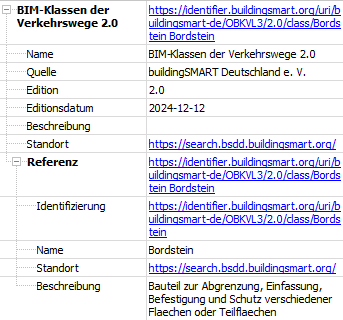
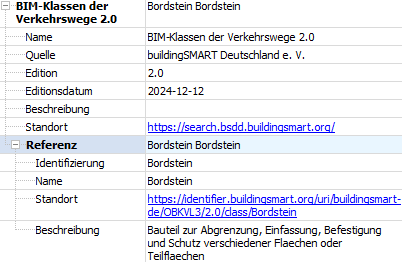
changed Identification to Location for pSetName creation

diff --git a/ConvertToPropertySet.py b/ConvertToPropertySet.py
@@ -49,13 +49,15 @@ def convert_to_property_set(file, model, pSetNameType):
                             removable.add(classification.ClassificationForObjects[0])
                 else:
                     value = attr.get(key)
-                    if key == 'Identification' and pSetName == 'GenerateNames' and value is not None:
+                    if key == 'Location' and pSetName == 'GenerateNames' and value is not None:
                         val = value.split('/')
                         l = len(val)
                         try:
                             pSetName = 'bSD_' + val[l-4] + '_' + val[l-3]
                         except:
                             pSetName = 'bSD_' + attr.get("Name")
+                    elif key == 'Location' and pSetName == 'GenerateNames' and value is None:
+                        pSetName = 'bSD_' + attr.get("Name")
                     if value is not None:
                         properties['Class'+key] = value
             removable.add(reference)

diff --git a/main.py b/main.py
@@ -107,7 +107,7 @@ pSetName.update_idletasks()
 w = pSetName.winfo_width()
 rb_generate = Radiobutton(
     tab2,
-    text="Generate Pset names by URI \n\n(Important! bSDD URI in IfcClassificationReference Identifier must be set)",
+    text="Generate Pset names by URI \n\n(Important! bSDD URI in IfcClassificationReference Location must be set)",
     wraplength=165,
     value="generate",
     variable=input_method_tab2,
